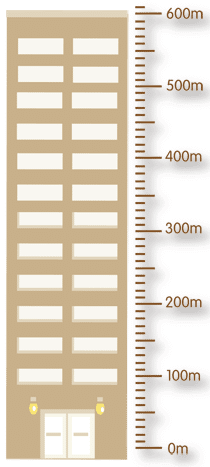
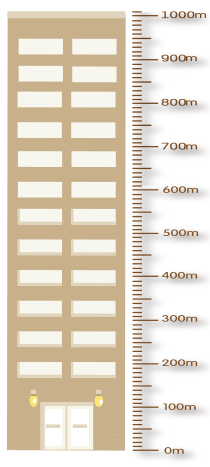
完善

diff --git a/resource/js/main.js b/resource/js/main.js
@@ -14,6 +14,9 @@ $(function() {
 		//原始链接
 	}
 	Jser.user = {};
+	TWeiXinCount = function() {
+		Jser.getJSON(Jser.ACTION + "share_complate/");
+	};
 	// 获取当前用户信息
 	function init() {
 		// alert("locOpenid:" + locOpenid + "," + location.href);
@@ -25,8 +28,8 @@ $(function() {
 				$(".js-help-h2").html(data.message.total_height);
 				var h = data.message.height;
 				$(".js-pc-h1").html(h);
-				if (h > 600) {
-					h = 600;
+				if (h > 1000) {
+					h = 1000;
 				}
 				$(".js-help-pc").css("top", 200 - h * 0.375);
 				loadwxconfig();
@@ -100,10 +103,12 @@ $(function() {
 	// 分享链接 是否需要带
 	function shareTitle(m) {
 		WeiXinShare.lineLink = global_lineLink + "?openid=" + Jser.user.openid;
-		if (m) {
-			WeiXinShare.shareTitle = "我在真朋友对屏吹活动中吹了" + m + "米，运足气，对屏吹！惊喜好礼等你拿！";
-		}
-		weixin6bySet();
+		Jser.getJSON(Jser.ACTION + "share_message/", function(data) {
+			if (m) {
+				WeiXinShare.shareTitle = "我在真朋友对屏吹活动中吹了" + m + "米，打败了" + data.over + "%的人，运足气，对屏吹！惊喜好礼等你拿！";
+			}
+			weixin6bySet();
+		})
 	};
 	// 判断进入的场景 应该是那个
 	function loadcanplay() {
@@ -262,9 +267,9 @@ $(function() {
 	function switch5() {
 		get_help_message();
 		$(".js-wrapper1").fadeOut(300, function() {
-			if(Number(Jser.user.prize)){
+			if (Number(Jser.user.prize)) {
 				$(".js-prize").html("恭喜您已中奖，<br/>请等待工作人员联系！");
-			}else{
+			} else {
 				$(".js-prize").html("您离目标还差一点，<br/>喊朋友来帮你吹！");
 			}
 			$(".js-wrapper5").fadeIn(300, function() {
@@ -299,8 +304,8 @@ $(function() {
 			$(".js-h1").html(h);
 			$(".js-pc-h1").html(h);
 			if (role == "me") {
-				if (h > 600) {
-					h = 600
+				if (h > 1000) {
+					h = 1000
 				}
 				$(".js-pc").css("top", 200 - h * 0.375);
 				shareTitle(data.message.height);
@@ -321,7 +326,7 @@ $(function() {
 	var context = canvas.getContext('2d');
 
 	function initDraw() {
-		$("#hand-message").text("准备开始");
+		$("#hand-message").text("按下指纹游戏开始");
 		initTanhao = true;
 		tanhao = true;
 		skipstart = false;
@@ -402,7 +407,7 @@ $(function() {
 		event.preventDefault();
 		thisstaus = 1;
 		initTanhao = false;
-		$("#hand-message").text("准备开始");
+		$("#hand-message").text("按住按钮，持续吹气");
 		processValue = 0;
 		var $this = $(this),
 			num;
@@ -415,7 +420,7 @@ $(function() {
 		clearInterval(handTime);
 		handTime = setInterval(function() {
 			handi++;
-			if (handi > 50 && handi <= 550) {
+			if (handi > 5 && handi <= 505) {
 				skipstart = true;
 				tanhao = false;
 				drawProcess();
@@ -427,7 +432,7 @@ $(function() {
 				}
 				$random.html(num);
 			}
-			if (handi > 550) {
+			if (handi > 505) {
 				tanhao = false;
 				$("#hand-message").text("完成");
 				stopAni2();
@@ -438,7 +443,7 @@ $(function() {
 			}
 		}, 20)
 		$("#canvas-btn").on("touchend", function(e) {
-			if (thisstaus != 1 || handi > 550) {
+			if (thisstaus != 1 || handi > 505) {
 				return;
 			}
 			$("#hand-message").text("按钮已松开，请重新吹气");

diff --git a/index.html b/index.html
@@ -15,7 +15,7 @@
 <body>
     <!-- 内容页 -->
     <div class="wrap" id="js-wrapper">
-        <div class="wrapper wrapper1 js-wrapper1">
+        <div class="wrapper wrapper1 js-wrapper1 hide">
             <div class="btn btn-start js-start">开始游戏</div>
             <div class="btn btn-explain js-explain">活动说明</div>
         </div>
@@ -27,18 +27,19 @@
             <img class="hide" id="imgprocess" name="imgprocess" src="resource/images/c1.png">
             <div class="ani js-ani"></div>
             <canvas width="172" height="172" class="canvas-process" id="canvas-process"></canvas>
-            <p class="p1" id="hand-message">准备开始</p>
+            <p class="p1" id="hand-message">按下指纹游戏开始</p>
             <p class="p2"><span class="js-random-txt">0</span>米</p>
             <div class="btn-touch" id="canvas-btn"></div>
         </div> 
-        <div class="wrapper wrapper4 js-wrapper4 hide">
+        <div class="wrapper wrapper4 js-wrapper4">
             <p class="p1"><span class="js-h1 js-help-h1"></span>米</p>
             <div class="prize">您离目标还差一点，<br/>喊朋友来帮你吹！</div>
             <div class="lou">
                 <div class="pc js-pc"><div class="pc-h1"><span class="js-pc-h1"></span>米</div></div>
             </div>
-            <div class="btn btn-help js-help"><div class="pt8">喊人帮忙</div></div>
-            <div class="btn btn-explain btn-explain2 js-explain"><div class="pt8">活动说明</div></div>
+            <div class="btn2 btn2-a btn-help2 js-gameplay"><div class="pt8">点击再次挑战</div></div>
+            <div class="btn2 btn2-b btn-help2  js-help"><div class="pt8">分享最终结果</div></div>
+            <div class="messageBox red">提示：最终分数不可更改</div>
         </div>
         <div class="wrapper wrapper5 js-wrapper5 hide">
             <p class="p1">目前累计<span class="js-help-h2"></span>米</p>

diff --git a/resource/css/main.css b/resource/css/main.css
@@ -50,6 +50,18 @@ body{
   background: url(../images/btn.png) 0 0 no-repeat;
   background-size: 100%;
 }
+.btn2{
+  width: 172px;
+  height: 39px;
+  display: block;
+  line-height: 39px;
+  font-size: 20px;
+  color: #fff;
+  font-weight: bold;
+  text-align: center;
+  background: url(../images/btn.png) 0 0 no-repeat;
+  background-size: 100%;
+}
 .btn-start{
   position: absolute;
   top: 52%;
@@ -280,6 +292,7 @@ body{
   left: 0;
   width: 100%;
   overflow: hidden;
+  text-align: center;
 }
 .js-messageBox{
   width: 100%;
@@ -306,3 +319,12 @@ body{
   text-align: right;
   text-shadow: #000 3px 3px 10px;
 }
+.btn2-a{
+  position: absolute;left:50%;
+  top:70%;
+}
+.btn2-b{
+  position: absolute;left:50%;
+  top:80.33%;
+}
+.red{color: #ff0000}
